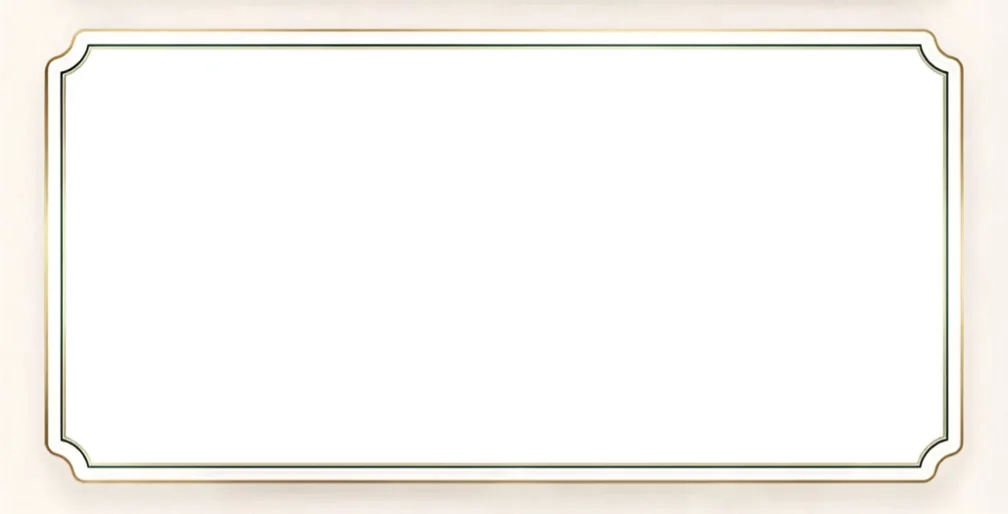
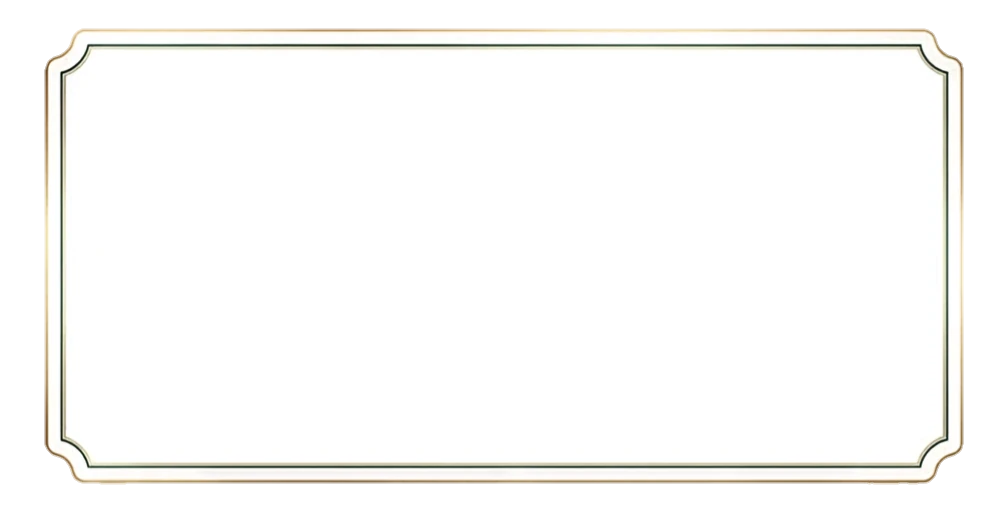
تحديث بلوك الطلب الشفاف الجديد كلياً وتصغير الأبعاد وجعل الخلفية شفافة 100%

Changed region(s): [[0.0308, 0.1245, 0.9841, 1.0], [0.0615, 0.0, 0.9534, 0.0623], [0.9226, 0.0934, 0.9534, 0.1245]]

diff --git a/src/app/mandoub/mandoub-order-table.tsx b/src/app/mandoub/mandoub-order-table.tsx
@@ -622,12 +622,12 @@ function MandoubFullBlockCardGrid({
                         onOpenRow(o.id);
                       }
                     }}
-                    className={`group relative rounded-[20px] p-2.5 sm:p-3 shadow-md hover:shadow-lg transition-all active:scale-[0.99] cursor-pointer flex flex-col justify-between gap-2 bg-white bg-no-repeat bg-[length:100%_100%] ${
+                    className={`group relative rounded-[20px] p-2.5 sm:p-3 shadow-md hover:shadow-lg transition-all active:scale-[0.99] cursor-pointer flex flex-col justify-between gap-2 bg-transparent bg-no-repeat bg-[length:100%_100%] ${
                       selected ? "ring-2 ring-[#0A3D2E]" : ""
                     }`}
                     style={{
                       backgroundImage: "url('/images/order-luxury/order-card-frame.webp')",
-                      minHeight: "220px",
+                      minHeight: "200px",
                     }}
                   >
                     {/* البادجات المالية العائمة أعلى الكرت */}

diff --git a/src/app/abo1stor3hlaa2kbr8-47/(dashboard)/orders/tracking/order-tracking-bulk-table.tsx b/src/app/abo1stor3hlaa2kbr8-47/(dashboard)/orders/tracking/order-tracking-bulk-table.tsx
@@ -933,12 +933,12 @@ function TrackingCardsView({
                         onOpenRow(o.id);
                       }
                     }}
-                    className={`group relative rounded-[20px] p-2.5 sm:p-3 shadow-md hover:shadow-lg transition-all active:scale-[0.99] cursor-pointer flex flex-col justify-between gap-2 bg-white bg-no-repeat bg-[length:100%_100%] ${
+                    className={`group relative rounded-[20px] p-2.5 sm:p-3 shadow-md hover:shadow-lg transition-all active:scale-[0.99] cursor-pointer flex flex-col justify-between gap-2 bg-transparent bg-no-repeat bg-[length:100%_100%] ${
                       selected ? "ring-2 ring-[#0A3D2E]" : ""
                     }`}
                     style={{
                       backgroundImage: "url('/images/order-luxury/order-card-frame.webp')",
-                      minHeight: "220px",
+                      minHeight: "200px",
                     }}
                   >
                     {/* البادجات المالية العائمة أعلى الكرت */}
